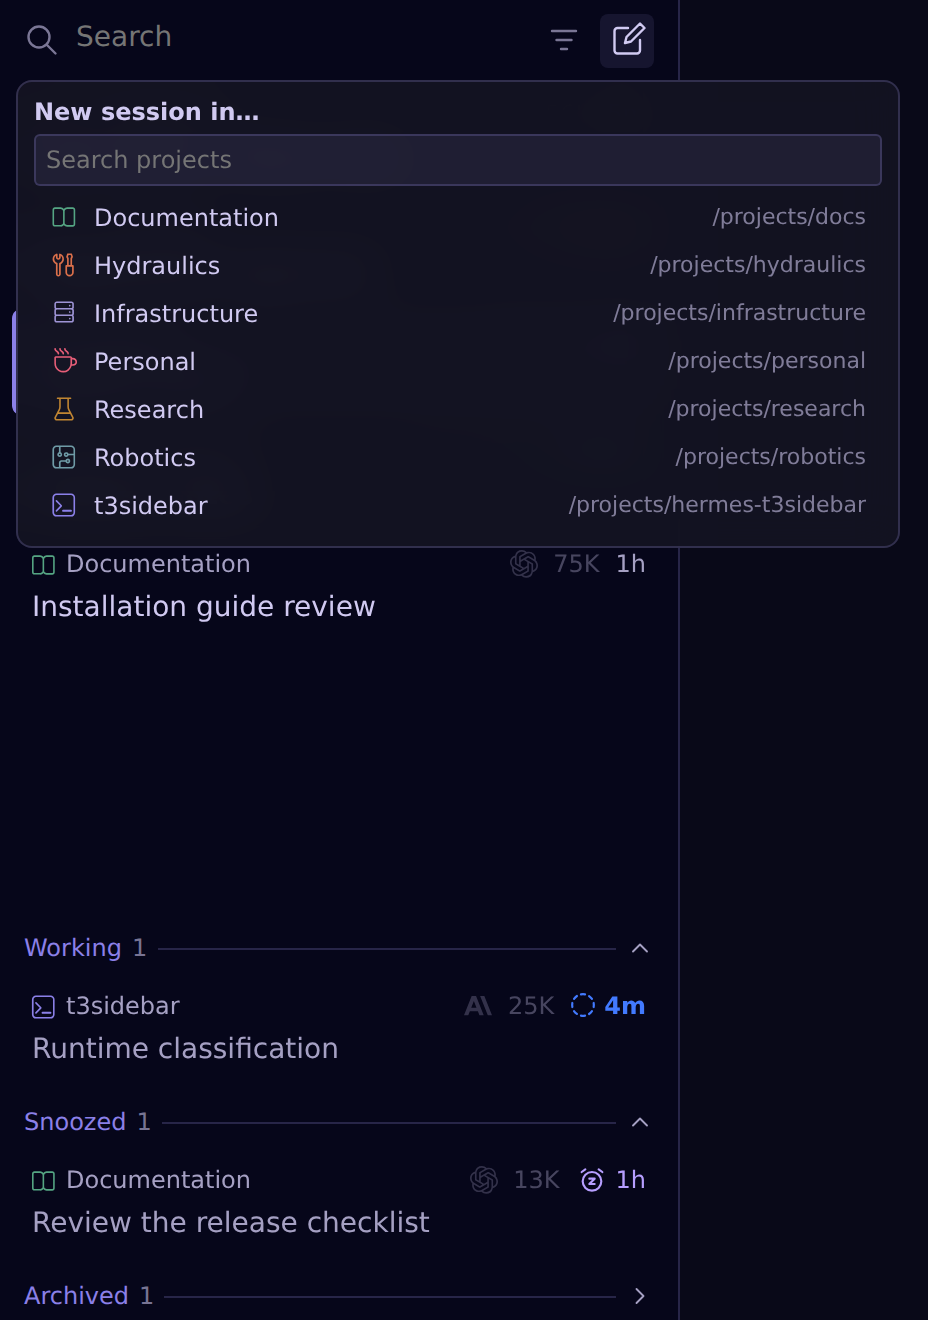
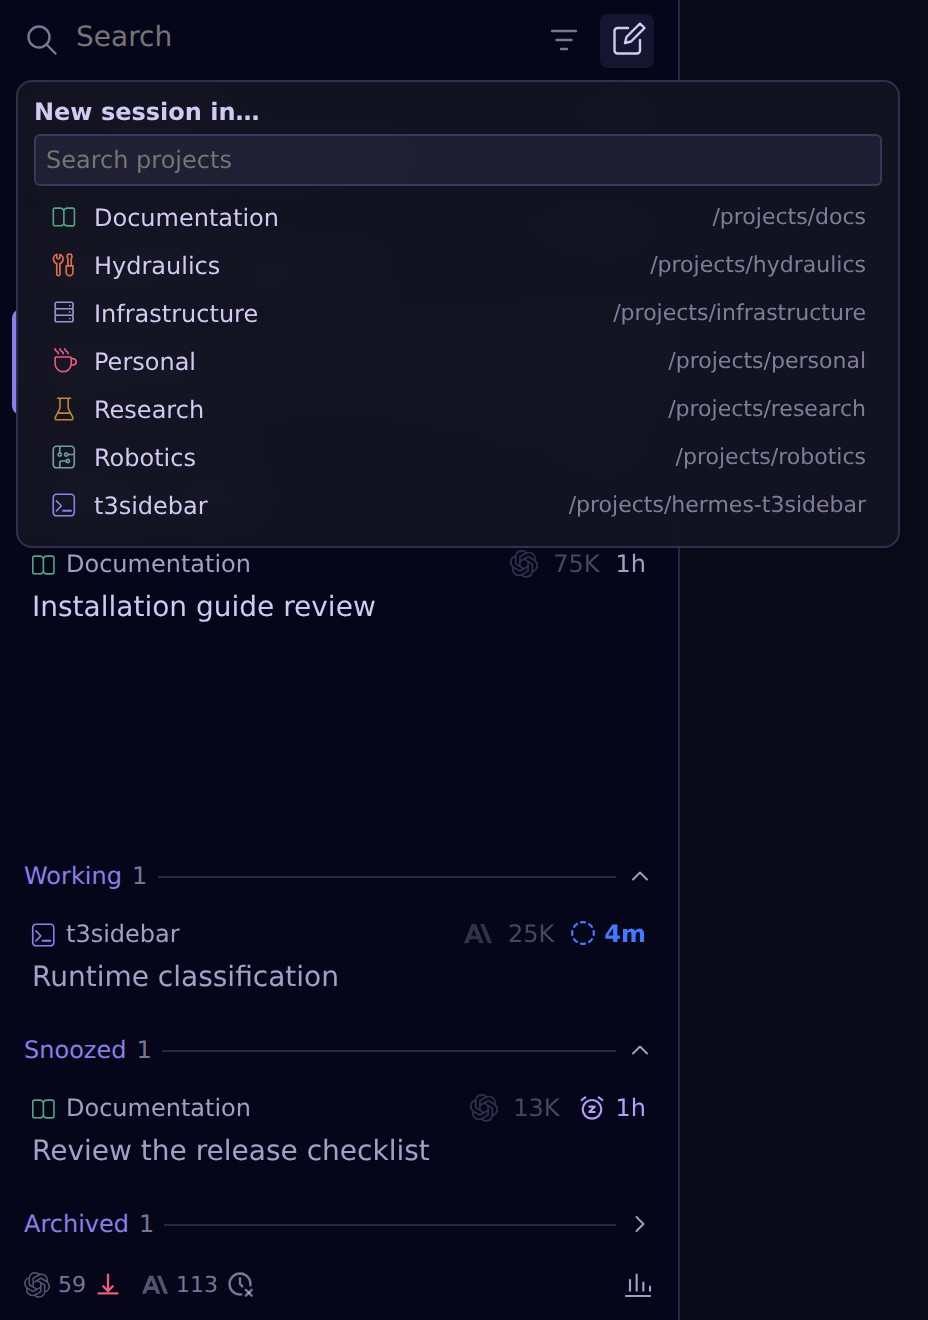
docs: feature-list README with AutoTitler, Working indicator, Usage and Limits screenshots

diff --git a/README.md b/README.md
@@ -1,38 +1,87 @@
 # hermes-t3sidebar
 
-A T3 Code-inspired session sidebar for [Hermes Desktop](https://hermes-agent.nousresearch.com/docs/user-guide/desktop). Keep conversations that need your attention up front, and running jobs out of the way.
+[Hermes Desktop](https://hermes-agent.nousresearch.com/docs/user-guide/desktop) plugin: T3 Code-style session sidebar with status shelves, pins, snooze, unsent-draft markers, project picker, [AutoTitler](https://github.com/Vocllum/hermes-auto-titler) rename, a token/cost **Usage** page and an OpenAI Codex / Anthropic Claude rate-limit **Limits** page.
 
-### Keep track of your sessions
+- Plugin id: `hermes-t3sidebar`
+- Parts: **Agent plugin** (backend companion) + **Desktop UI**
+- Requires: Hermes `>=0.21.0`
+- Optional: `hermes-auto-titler` plugin (Hermes catalog id)
 
-**Input**, **Done** and **Woke** flag questions, completions and expired snoozes. Pin important conversations, keep running jobs in **Working**, and archive without deleting history. An **orange background** marks unsent text in a session you're not viewing.
+### Session shelves
 
-![Session sidebar with an orange draft background on Installation guide review, Input and Done badges, a pinned conversation, and separate Working, Snoozed and folded Archived shelves](docs/images/draft.png)
+- **Input**, **Done**, **Woke** badges: question or approval waiting, finished turn, expired snooze.
+- Shelves: **Pinned**, **Working** (elapsed time), **Snoozed**, **Archived** (history kept).
+- Orange background: unsent draft in a session you are not viewing.
+- Cards: project, provider icon, token count including subagents.
+- Pins, snoozes and completion markers shared between Desktop clients through the backend companion.
 
-### Start in the right project
+![Session sidebar: orange draft background on Installation guide review, Input and Done badges, pinned sessions, Working, Snoozed and folded Archived shelves, Limits and Usage footer](docs/images/draft.png)
 
-Choose a project before starting a conversation. Sessions open in Hermes's normal chat workspace.
+### AutoTitler: rename now
 
-![New session menu with searchable projects, colored native icons and workspace paths](docs/images/new-session.png)
+- Right-click a session → **Autotitler: rename now**: AutoTitler retitles it from its current topic, or keeps the title.
+- Needs the [hermes-auto-titler](https://github.com/Vocllum/hermes-auto-titler) plugin loaded on the backend; otherwise the action stays visible, disabled, with the reason on hover.
 
-### Find your place
+![Session right-click menu with Autotitler: rename now highlighted below Rename](docs/images/autotitler.png)
 
-Search sessions or filter by project without changing your workspace.
+### Detailed Working indicator
+
+- Optional setting.
+- Solid circle: the agent's own turn is running.
+- Dashed circle: only subagents or a background command keep the session busy.
+- `+N`: running subagents.
+- Pinched ring: context compaction.
+
+![Working shelf with the detailed indicator: compacting ring, solid circle with +2 subagents, dashed circle with +3 subagents, dashed circle for a background command](docs/images/working.png)
+
+### Usage page
+
+- Footer chart button → **Usage** page.
+- Charts on one time axis: tokens, API-equivalent cost, human user messages, as per-day rates.
+- Configurable period, per-provider or per-model series, stacking.
+- Read-only from Hermes's `session_model_usage`; no extra storage.
+
+![Usage page: tokens, API-equivalent cost and user messages per day over 7 days, stacked by provider](docs/images/usage.png)
+
+### Limits page
+
+- Footer button: remaining units and verdict icon per provider → **Limits** page.
+- Providers: OpenAI Codex and Anthropic credential pools; accounts pooled in units weighted by plan.
+- Chart: past quota, **Now**, projection; configurable averaging period, limit window and horizon.
+- Verdicts: when the pool runs out before a reset, or how many units expire unused.
+- Markers: reset step-ups, units lost at each reset, Codex banked reset credit expiries.
+- Per-account bars with reset times.
+- Backend sampler every 5 minutes, 35 days of history, read-only: never refreshes tokens, clears cooldowns or redeems resets.
+
+![Limits page: OpenAI Codex pool running out Sunday with reset markers and lost units, Anthropic pool with units expiring unused, averaging and time-to-empty measurements](docs/images/limits.png)
+
+### Projects
+
+- **New session** in a chosen project; sessions open in Hermes's normal chat workspace.
+
+![New session menu with searchable projects, colored icons and workspace paths](docs/images/new-session.png)
+
+- Search sessions or filter by project without changing workspace.
 
 ![Project filter menu with search, All projects and project choices](docs/images/filter.png)
 
-### Come back later
+- Right-click: pin, rename, move to project. **Project** submenu: rename, copy path, filter, color, icon.
 
-Snooze for an hour, three hours, tomorrow, next Monday or a custom local date and time. Snoozing never stops or resumes an agent.
+![Session right-click menu with the Project submenu expanded: project actions, colors and icons](docs/images/session-project.png)
 
-![Snoozed session menu with wake date/time and right-aligned time left on one line, Unsnooze, presets and an aligned custom date input](docs/images/snooze.png)
+### Snooze
 
-### Organize sessions and projects
+- Presets or a custom local date and time.
+- Never stops or resumes an agent.
 
-Right-click to pin, rename or move a conversation. Open **Project** to rename the project, copy its path, filter for it, or choose its color and icon.
+![Snoozed session menu: wake date and time left, Unsnooze, presets and custom date input](docs/images/snooze.png)
 
-![Session right-click menu with the Project submenu expanded, showing project actions, colors and icons](docs/images/session-project.png)
+### Settings
 
-Pins, snoozes and completion markers are shared between clients through the backend companion.
+- Snooze preset time
+- Detailed Working indicator
+- Pinned session gap
+- Show token counts
 
 ## Install
 
@@ -40,13 +89,14 @@ Pins, snoozes and completion markers are shared between clients through the back
 2. Enter `https://github.com/V1rgul/hermes-plugin-t3sidebar` and select **Agent plugin** + **Desktop UI**.
 3. Enable both halves, open the **t3sidebar** pane, and hide the built-in **Sessions** pane using the normal layout controls.
 
-Using a remote backend or upgrading an existing installation? See the [installation guide](docs/installation.md), including when a backend restart is needed.
+Remote backend or upgrade: [installation guide](docs/installation.md), including when a backend restart is needed.
 
 ## Documentation
 
-- [Installation](docs/installation.md) — remote backends, local checkouts and the old Session Flow name.
-- [Sidebar behavior](docs/behavior.md) — controls, status badges, search and compatibility limits.
-- [Architecture](docs/architecture.md) — backend storage, package layout and performance.
-- [Development](docs/development.md) — tests and the browser harness.
+- [Installation](docs/installation.md): remote backends, local checkouts, the old Session Flow name.
+- [Sidebar behavior](docs/behavior.md): controls, status badges, search, compatibility limits.
+- [Usage and Limits](docs/usage.md): data sources, timing approximation, cost, limits sampling.
+- [Architecture](docs/architecture.md): backend storage, package layout, performance.
+- [Development](docs/development.md): tests, browser harness, screenshots.
 
-The Desktop UI uses the public plugin SDK; some backend reads depend on version-sensitive Hermes internals. See [limitations and compatibility](docs/behavior.md#limitations-and-compatibility) before installing.
+The Desktop UI uses the public plugin SDK; some backend reads depend on version-sensitive Hermes internals: [limitations and compatibility](docs/behavior.md#limitations-and-compatibility).

diff --git a/docs/development.md b/docs/development.md
@@ -18,7 +18,7 @@ npm run harness
 
 Open `http://127.0.0.1:4173`. The right-hand panel is a labeled test workspace, not an alternative chat implementation. Browser tests write screenshots to `t3-sidebar-ui-verification/` under `TMPDIR` (or the Hermes scratch directory when unset). The README's maintained screenshots live in `docs/images/`.
 
-README screenshots render the current plugin with sample sessions and a development SDK adapter, using the Midnight dark palette and native Codicon font. They are not captures of a live Desktop connection.
+README screenshots render the current plugin with sample sessions and a development SDK adapter, using the Midnight dark palette and native Codicon font. Usage and Limits captures use the synthetic `syntheticUsageHistory` and `syntheticUsageLimits` fixtures from `tests/sdk.mock.mjs`, with the clock fixed on Wed 2026-11-04 15:00 Paris. They are not captures of a live Desktop connection.
 
 The production plugin itself needs none of these Node development dependencies or generated bundles.
 
